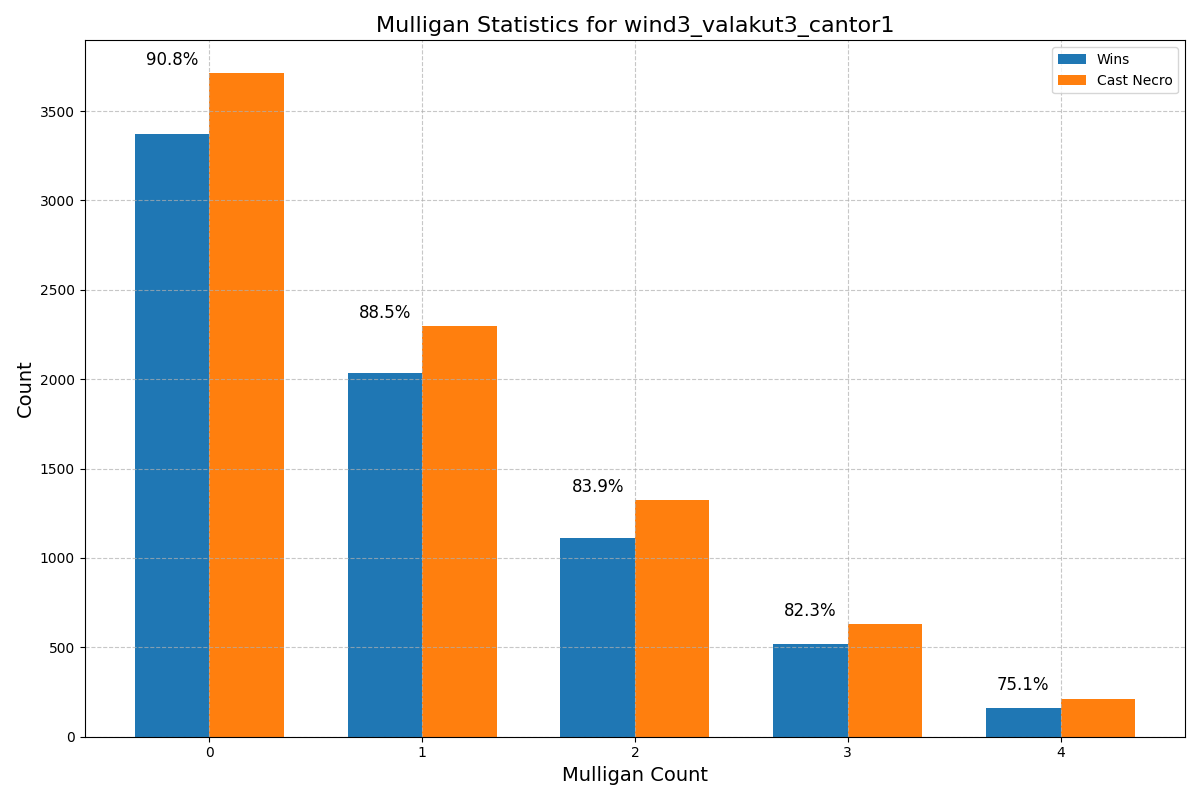
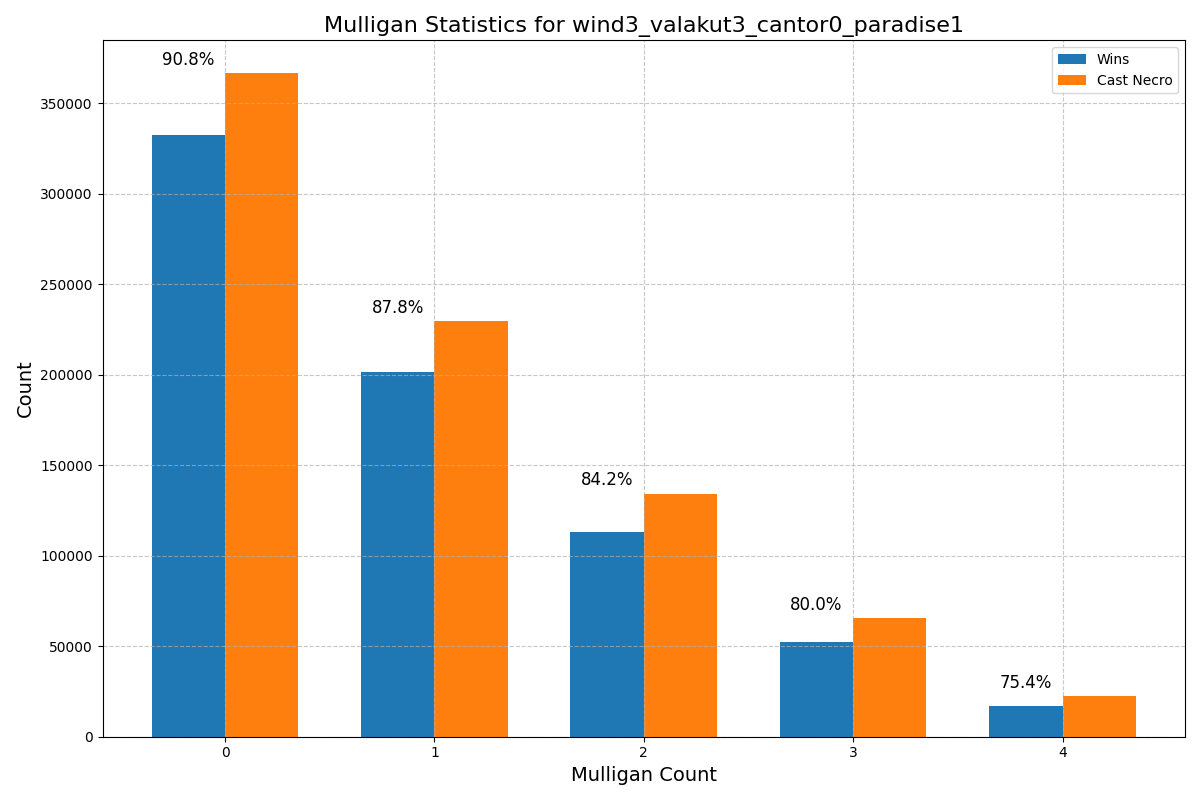
plot_draw_count_analysis関数を複数デッキ対応に修正

diff --git a/plot_results.py b/plot_results.py
@@ -20,11 +20,12 @@ def plot_mulligan_stats():
     # CSVファイルを読み込む
     df = pd.read_csv(csv_path)
     
+    deck_name = 'wind3_valakut3_cantor0_paradise1'
     # wind3_valakut3_cantor1の行のデータを抽出
-    deck_data = df[df['deck_name'] == 'wind3_valakut3_cantor1']
+    deck_data = df[df['deck_name'] == deck_name]
     
     if deck_data.empty:
-        print("Error: No data found for wind3_valakut3_cantor1")
+        print(f"Error: No data found for {deck_name}")
         return
     
     # 必要なデータを抽出
@@ -45,7 +46,7 @@ def plot_mulligan_stats():
     rects2 = ax.bar(x + width/2, cast_necro_data, width, label='Cast Necro')
     
     # グラフのタイトルと軸ラベルを設定
-    ax.set_title('Mulligan Statistics for wind3_valakut3_cantor1', fontsize=16)
+    ax.set_title(f'Mulligan Statistics for {deck_name}', fontsize=16)
     ax.set_xlabel('Mulligan Count', fontsize=14)
     ax.set_ylabel('Count', fontsize=14)
     ax.set_xticks(x)
@@ -78,6 +79,7 @@ def plot_mulligan_stats():
 def plot_draw_count_analysis():
     """
     results/analyze_draw_counts.csvからドロー数ごとの勝率をグラフ化する関数
+    複数のデッキに対して折れ線グラフを作成する
     """
     csv_path = 'results/analyze_draw_counts.csv'
     if not os.path.exists(csv_path):
@@ -87,17 +89,41 @@ def plot_draw_count_analysis():
     # CSVファイルを読み込む
     df = pd.read_csv(csv_path)
     
-    # ドロー数でソート（降順）- 左から19~10になるように
-    df = df.sort_values('draw_count', ascending=False)
+    # デッキ名でグループ化
+    deck_names = df['deck_name'].unique()
     
     # グラフの設定
     plt.figure(figsize=(12, 8))
     
-    # 折れ線グラフを作成（X軸を逆順にするため、X軸の値を明示的に指定）
-    plt.plot(df['draw_count'].values, df['win_rate'].values, 'b-o', linewidth=2)
+    # 色のリスト
+    colors = ['b', 'r', 'g', 'c', 'm', 'y', 'k']
+    markers = ['o', 's', '^', 'D', 'v', '<', '>']
+    
+    # 各デッキごとに折れ線グラフを作成
+    for i, deck_name in enumerate(deck_names):
+        # デッキのデータを抽出
+        deck_data = df[df['deck_name'] == deck_name]
+        
+        # ドロー数でソート（降順）- 左から19~10になるように
+        deck_data = deck_data.sort_values('draw_count', ascending=False)
+        
+        # 色とマーカーを選択（リストの範囲を超えないようにインデックスを調整）
+        color = colors[i % len(colors)]
+        marker = markers[i % len(markers)]
+        
+        # 折れ線グラフを作成
+        plt.plot(deck_data['draw_count'].values, deck_data['win_rate'].values, 
+                 f'{color}-{marker}', linewidth=2, label=deck_name)
+        
+        # 各データポイントに値を表示（デッキごとに少しずらして表示）
+        offset = i * 0.5  # デッキごとに表示位置をずらす
+        for _, row in deck_data.iterrows():
+            plt.text(row['draw_count'], row['win_rate'] + 1 + offset, 
+                     f"{row['win_rate']:.1f}%", 
+                     ha='center', va='bottom', fontweight='bold', color=color)
     
     # グラフのタイトルと軸ラベルを設定
-    plt.title('Win Rate by Draw Count', fontsize=16)
+    plt.title('Win Rate by Draw Count for Multiple Decks', fontsize=16)
     plt.xlabel('Draw Count', fontsize=14)
     plt.ylabel('Win Rate (%)', fontsize=14)
     plt.grid(True, linestyle='--', alpha=0.7)
@@ -108,10 +134,8 @@ def plot_draw_count_analysis():
     # Y軸の範囲を0-100%に設定
     plt.ylim(0, 100)
     
-    # 各データポイントに値を表示
-    for i, row in df.iterrows():
-        plt.text(row['draw_count'], row['win_rate'] + 1, f"{row['win_rate']:.1f}%", 
-                 ha='center', va='bottom', fontweight='bold')
+    # 凡例を追加
+    plt.legend(fontsize=12)
     
     # グラフを保存
     plt.tight_layout()

diff --git a/deck_analyzer.py b/deck_analyzer.py
@@ -249,13 +249,6 @@ def compare_decks(analyzer: DeckAnalyzer):
     save_results_to_csv('compare_decks', results, DEFAULT_PRIORITY_FIELDS)
 
 def analyze_draw_counts(analyzer: DeckAnalyzer):
-    # 複数のデッキリストを分析
-    DECK_PATHS = [
-        'decks/wind3_valakut3_cantor1.txt',
-        'decks/wind4_valakut2_cantor1.txt',
-        'decks/wind4_valakut2_cantor0_paradise1.txt'
-    ]
-    
     initial_hand = [GEMSTONE_MINE, DARK_RITUAL, NECRODOMINANCE]
     all_results = []
     
